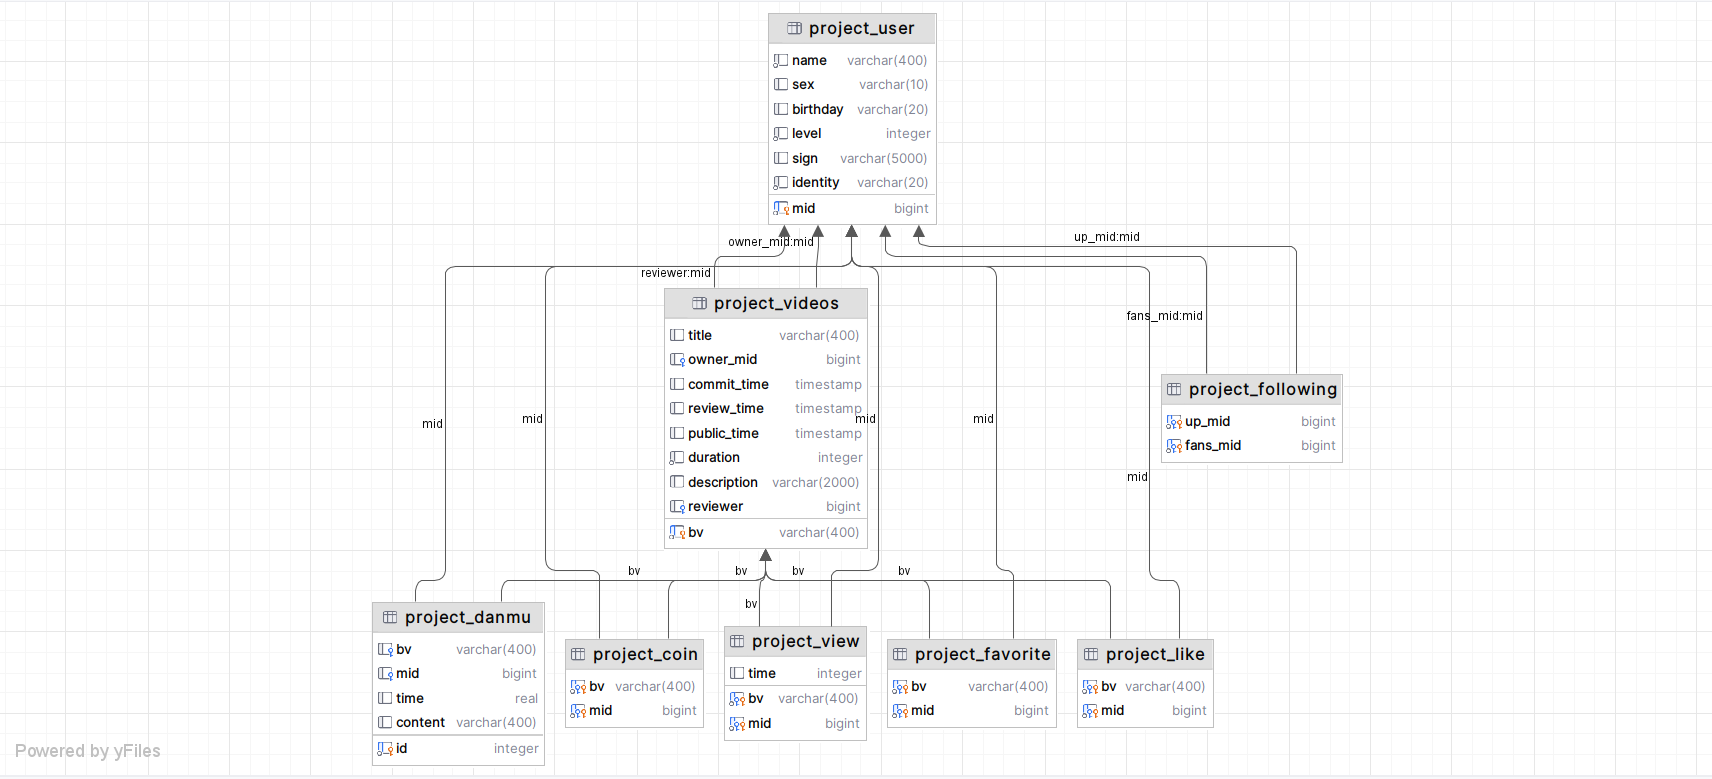
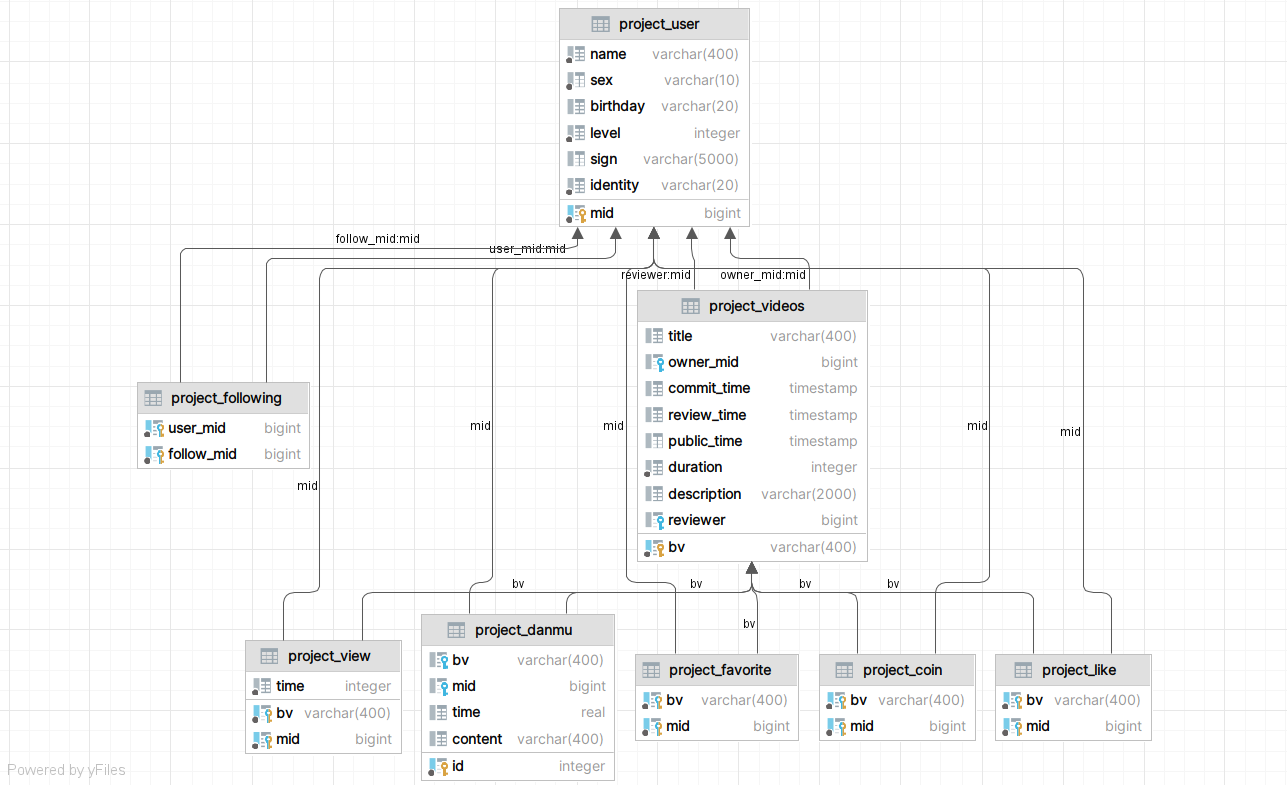
modifying database design

diff --git a/src/task4/BTree.java b/src/task4/BTree.java
@@ -1,5 +1,6 @@
 package task4;
 
+// The implementation is refer to Algorithms, 4th Edition by Robert Sedgewick and Kevin Wayne.
 public class BTree<Key extends Comparable<Key>, Value>  {
     private static final int M = 6;
     private Node root;

diff --git a/Report.md b/Report.md
@@ -39,63 +39,65 @@ We use [Visio](https://visio.iruanhui.cn/?bd_vid=9042954634973670880) to draw th
 
 ### 2. Table Design Description
 By analyzing the initial data, we gained some key information:  
-* "following" in user.csv usually has multiple mids of up.
-* "like", "coin", "favorite" and "view" in videos.csv usually has mutiple mids.
-* In the same video, the same person can send identical danmu at the same time.  
+* Column `following` in `user.csv` usually has multiple mids of up.
+* Column `like`, `coin`, `favorite` and `view` in `videos.csv` usually has multiple `mid`.
+* In the same video, the same person may send more than one `danmu` at the same time, so we need a self increasing primary key `id`.  
 
-This information results in tables that do not satisfy the three normal forms.
+These information results in the files do not satisfy the three normal forms.
 In order to make the database design meet the three normal forms and be as easy to expand as possible, 
 we designed the following tables. 
 
 **project_user**  
-* `mid`: the uid of the user.
-* `name`: the name of the user.
-* `sex`: the sex of the user.
-* `birthday`: the birthday of the user.
-* `level`: the level of the user.
-* `sign`: the personal description.
-* `identity`: "user" or "superuser".
-  
+* `mid`: the id of the user which is the primary key of this table
+* `name`: the name of the user
+* `sex`: the sex of the user
+* `birthday`: the birthday of the user
+* `level`: the level of the user
+* `sign`: the personal description
+* `identity`: could only be "user" or "superuser"
+
 **project_following**
-* `up_mid`: the mid of up followed by fans.
-* `fans_mid`: the mid of the user following the up.
-  
+
+* `user_mid`: the `mid` of the user who followed others
+* `follow_mid`: the `mid` of the user who is being followed
+
 **project_video**
-* `BV`: the unique identification string of a video.
-* `title`: the name of the video.
-* `owner_mid`: the mid of the video owner.
-* `commit_time`: the time when the owner committed this video.
+* `BV`: the unique identification string of a video
+* `title`: the name of the video
+* `owner_mid`: the mid of the video owner
+* `commit_time`: the time when the owner committed this video
 * `review_time`: the time when the video was inspected by its reviewer
-* `public_time`: the time when the video was made public for all users.
-* `duration`: the video duration.
-* `description`: the brief text introduction given by the uploader.
-* `reviewr`: the mid of the video reviewer.
+* `public_time`: the time when the video was made public for all users
+* `duration`: the video duration
+* `description`: the brief text introduction given by the uploader
+* `reviewr`: the `mid` of the video reviewer
 
 **project_like**
-* `BV`: the video BV of the video liked.
-* `mid`: the mid of the user who liked the video.
-  
+* `BV`: the video `BV` of the video liked
+* `mid`: the `mid` of the user who liked the video
+
 **project_coin**
-* `BV`: the video BV of the video given the coins.
-* `mid`: the mid of the user who gave the coins to the video. 
+* `BV`: the video `BV` of the video given the coins
+* `mid`: the `mid` of the user who gave the coins to the video.
 
 **project_favorite**
-* `BV`: the video BV of the video favorited.
-* `mid`: the mid of the user who favorited the video.
+
+* `BV`: the video `BV` of the video favored
+* `mid`: the `mid` of the user who favorite the video
 
 **project_view**
-* `BV`: the video BV of the video watched.
-* `mid`: the mid of the user who watched the video.
-* `time`: last watch time duration of the user.
+* `BV`: the video `BV` of the video watched
+* `mid`: the `mid` of the user who watched the video
+* `time`: last watch time duration of the user
 
 **project_danmu**
-* `id`: the tag of danmu. (Increment primary key)
-* `BV`: the video BV of the video that the Danmu was sent.
-* `mid`: the mid of the user who sent the Danmu.
-* `time`: the time of the video that Danmu appears.
-* `content`: the content of the Danmu.  
-  
-Our design satisfies the need of following:
+* `id`: the tag of `danmu` which is a self increasing primary key
+* `BV`: the video `BV` of the video that the `danmu` was sent
+* `mid`: the `mid` of the user who sent the `danmu`
+* `time`: the time of the video that `danmu` appears
+* `content`: the content of the `danmu`
+
+Our design satisfies the needs of following :
 * Follow the requirements of the three normal forms.
   * Each property cannot contain multiple values or duplicate values.
   * Every non-key attribute (column) is fully functionally dependent on the entire primary key.
@@ -104,18 +106,24 @@ Our design satisfies the need of following:
 * Each table has its primary key.
 * Every table is included in a link. No isolated tables included.
 * Contain no circular links.
-* Each table has its own NOTNULL column and UNIQUE column.
+* Each table has its own `NOTNULL` column and `UNIQUE` column.
 * Use appropriate types for different fields of data.
 
 ### 3. Scalability
 The tables we've designed exhibit strong scalability:  
-* "project_following" can store all following ups' mid of users. 
-It's also very easy to add or delete new following. 
-Meanwhile, It can easily retrieve the list of users following this user.
-* "project_like", "project_coin" and "project_favorite" also have the scalability like "project_following".
-* "project_view" uses the composite primary key, which can make update the time easier.
+* Table `project_following` can store all `mid` of following users. It's also very easy to add or delete new following. Meanwhile, it can easily retrieve the list of users following this user by keyword `group by`.
+* Table `project_like`, `project_coin` and `project_favorite` also have the scalability like `project_following` for the similar reason.
+* Table `project_view` uses self increasing primary key, which can make update the time easier.
+
+
+
+
 
 ## Task 3: Data Import
+
+
+
+
 
 
 
@@ -422,4 +430,3 @@ The figure on the right is a line chart which shows the time cost of different c
 <p align="middle">
   <img src="pic\\task4\\8.png" width="1000" />
 </p>
-
